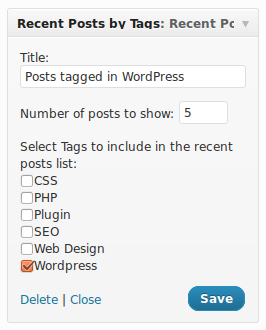
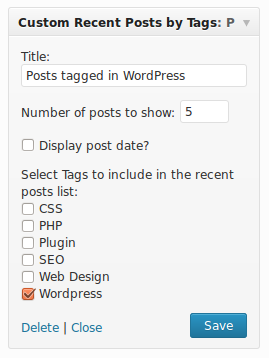
Updated Recent Posts by Tags plugin. Added option to show post date
git-svn-id: https://plugins.svn.wordpress.org/recent-posts-by-tags/trunk@645304 b8457f37-d9ea-0310-8a92-e5e31aec5664

diff --git a/recent-posts-by-tags.php b/recent-posts-by-tags.php
@@ -3,7 +3,7 @@
 Plugin Name: Recent Posts by Tags
 Plugin URI: http://www.prasannasp.net/wordpress-plugins/recent-posts-by-tags/
 Description: Displays a list of recent posts related to a single tag or multiple tags. You can select the number of posts to display in widget settings. Widget title can be changed.
-Version: 1.0
+Version: 1.1
 Author: Prasanna SP
 Author URI: http://www.prasannasp.net/
 */
@@ -35,12 +35,12 @@ class Recent_Posts_By_Tags_Widget extends WP_Widget {
     	parent::__construct('recent-posts-by-tags', __('Recent Posts by Tags'), $widget_ops);
 	}
 
-
 	function widget($args, $instance) {
            
 			extract( $args );
 		
 			$title = apply_filters( 'widget_title', empty($instance['title']) ? 'Recent Posts' : $instance['title'], $instance, $this->id_base);	
+			$show_date = isset( $instance['show_date'] ) ? $instance['show_date'] : false;
 			
 			if ( ! $number = absint( $instance['number'] ) ) $number = 5;
 						
@@ -52,13 +52,11 @@ class Recent_Posts_By_Tags_Widget extends WP_Widget {
 			$rpbt_args=array(
 						   
 				'showposts' => $number,
-			
 				'tag__in'=> $tags,
 															
 				);
 			
 			$rpbt_widget = null;
-			
 			$rpbt_widget = new WP_Query($rpbt_args);
 			
 			
@@ -68,27 +66,24 @@ class Recent_Posts_By_Tags_Widget extends WP_Widget {
 			// Widget title
 			
 			echo $before_title;
-			
 			echo $instance["title"];
-			
 			echo $after_title;
-			
 			
 			// Post list in widget
 			
 			echo "<ul>\n";
 			
 		while ( $rpbt_widget->have_posts() )
-
 		{
-
 			$rpbt_widget->the_post();
-
 		?>
 
 			<li class="rpbt-item">
 
 				<a  href="<?php the_permalink(); ?>" rel="bookmark" title="Permanent link to <?php the_title_attribute(); ?>" class="rpbt-title"><?php the_title(); ?></a>
+				<?php if ( $show_date ) : ?>
+				<span class="rpbt-date"><?php echo "("; ?><?php echo get_the_date(); ?><?php echo ")"; ?></span>
+				<?php endif; ?>
 		
 			</li>
 
@@ -99,7 +94,6 @@ class Recent_Posts_By_Tags_Widget extends WP_Widget {
 		 wp_reset_query();
 
 		echo "</ul>\n";
-
 		echo $after_widget;
 
 	}
@@ -109,26 +103,27 @@ class Recent_Posts_By_Tags_Widget extends WP_Widget {
 		$instance['title'] = strip_tags($new_instance['title']);
         	$instance['tags'] = $new_instance['tags'];
 		$instance['number'] = absint($new_instance['number']);
+		$instance['show_date'] = (bool) $new_instance['show_date'];
 	     
         		return $instance;
 	}
 	
-	
 	function form( $instance ) {
 		$title = isset($instance['title']) ? esc_attr($instance['title']) : 'Recent Posts';
 		$number = isset($instance['number']) ? absint($instance['number']) : 5;
+		$show_date = isset( $instance['show_date'] ) ? (bool) $instance['show_date'] : false;
 		
 ?>
         <p><label for="<?php echo $this->get_field_id('title'); ?>"><?php _e('Title:'); ?></label>
         <input class="widefat" id="<?php echo $this->get_field_id('title'); ?>" name="<?php echo $this->get_field_name('title'); ?>" type="text" value="<?php echo $title; ?>" /></p>
                   
-
-                        
         <p><label for="<?php echo $this->get_field_id('number'); ?>"><?php _e('Number of posts to show:'); ?></label>
         <input id="<?php echo $this->get_field_id('number'); ?>" name="<?php echo $this->get_field_name('number'); ?>" type="text" value="<?php echo $number; ?>" size="3" /></p>
         
+        <p><input class="checkbox" type="checkbox" <?php checked( $show_date ); ?> id="<?php echo $this->get_field_id( 'show_date' ); ?>" name="<?php echo $this->get_field_name( 'show_date' ); ?>" />
+	<label for="<?php echo $this->get_field_id( 'show_date' ); ?>"><?php _e( 'Display post date?' ); ?></label></p>
         
-         <p>
+        <p>
             <label for="<?php echo $this->get_field_id('tags'); ?>"><?php _e('Select Tags to include in the recent posts list:');?> 
             
                 <?php
@@ -144,9 +139,8 @@ class Recent_Posts_By_Tags_Widget extends WP_Widget {
                                 }
                             }
                             $option .= ' value="'.$tag->term_id.'" />';
-        
+        		    $option .= '&nbsp;';
                             $option .= $tag->name . ' ';
-                            
                             $option .= '<br />';
                             echo $option;
                          }
